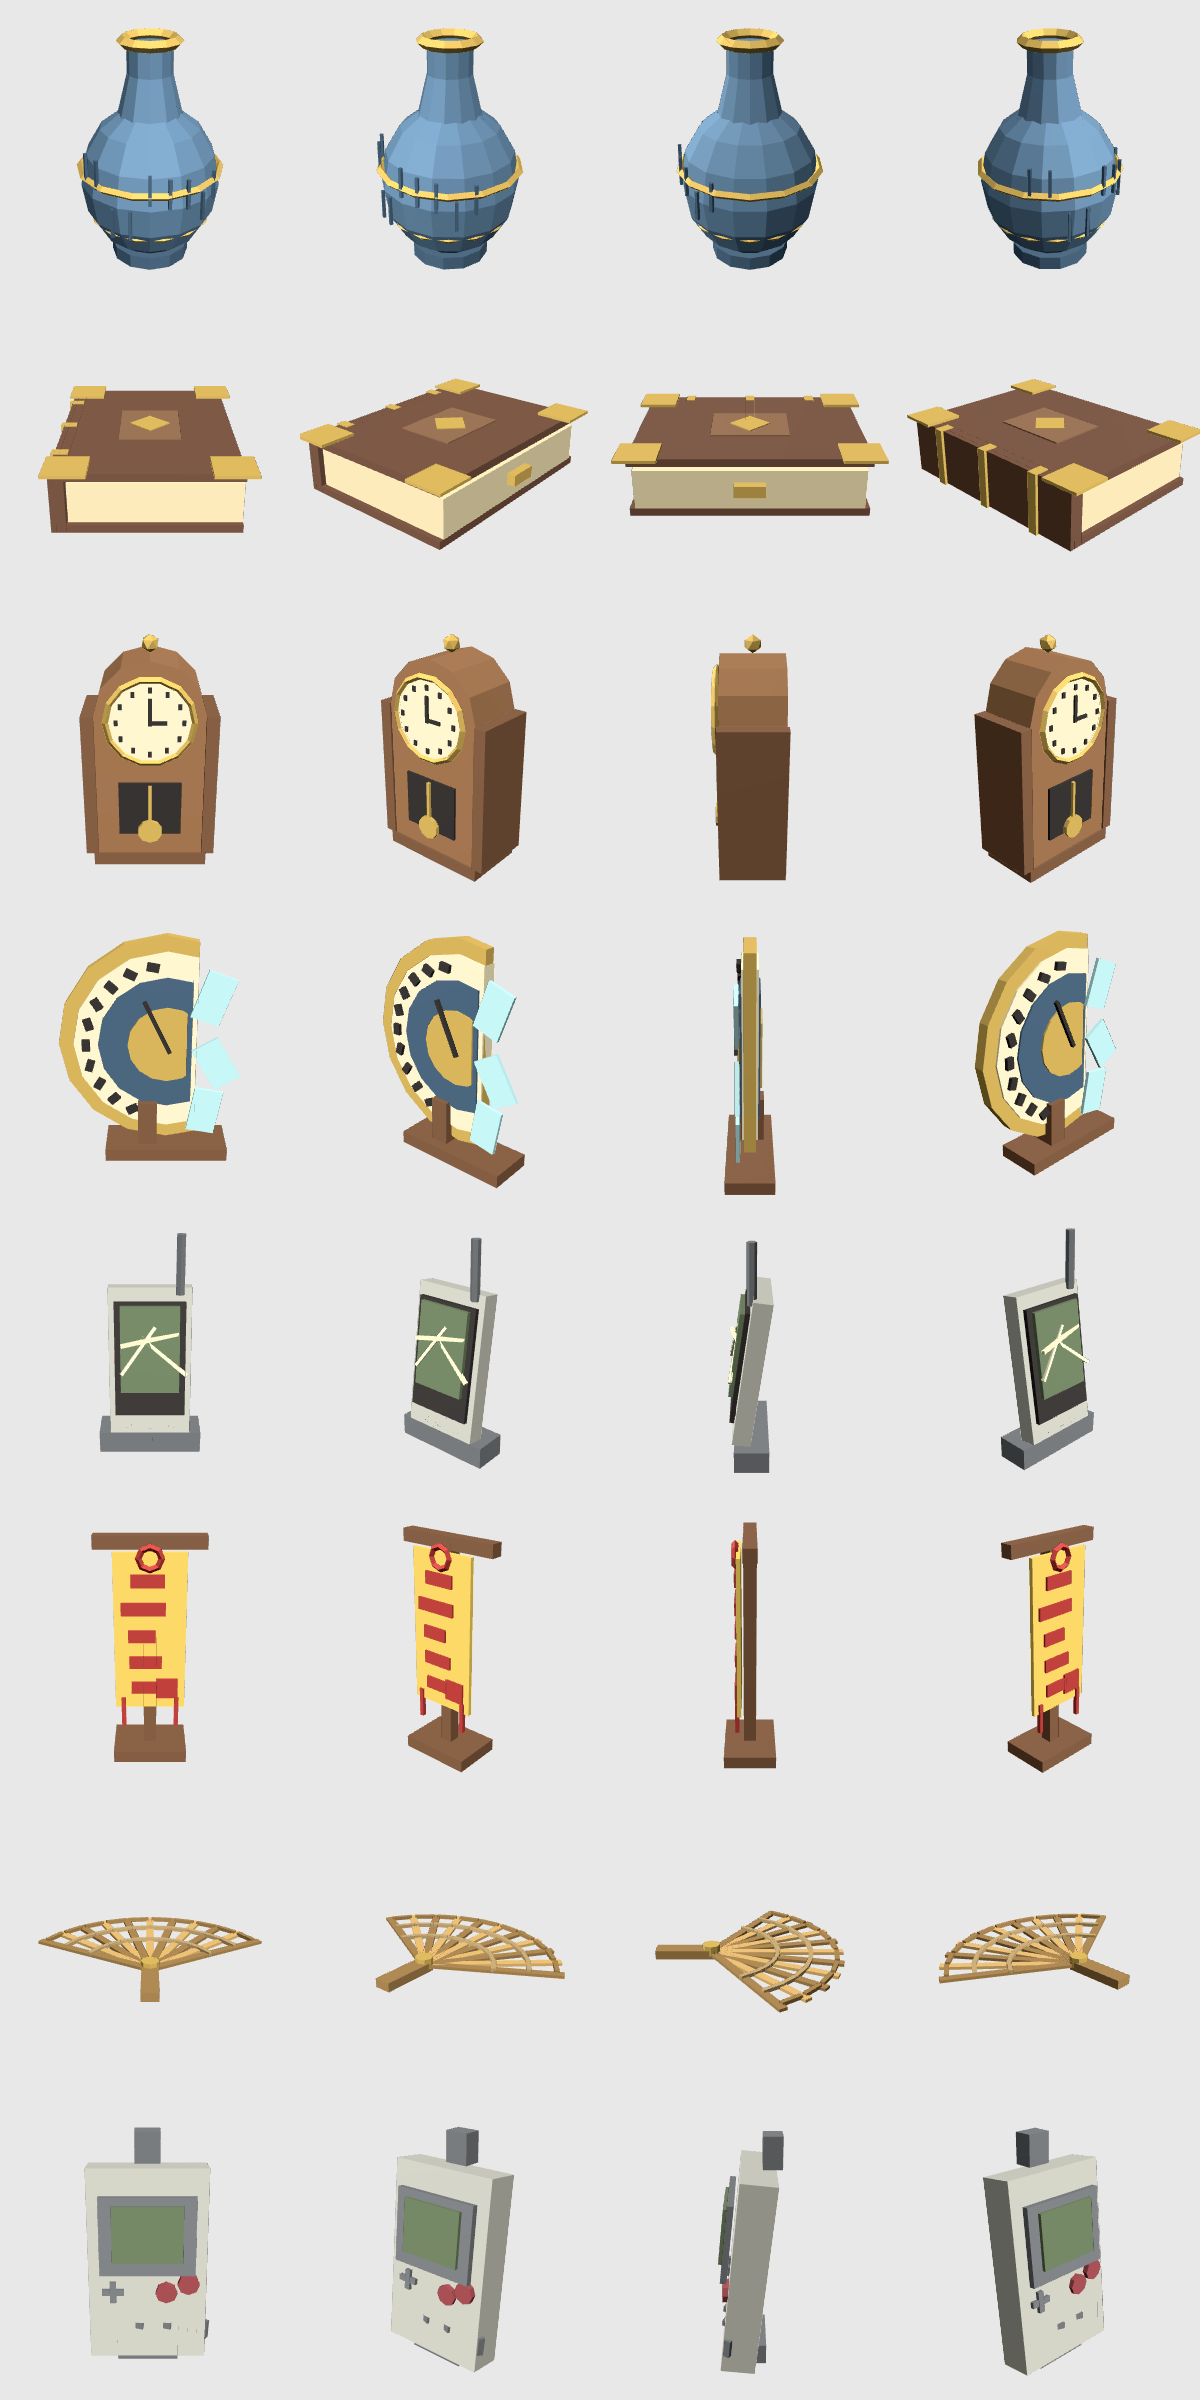
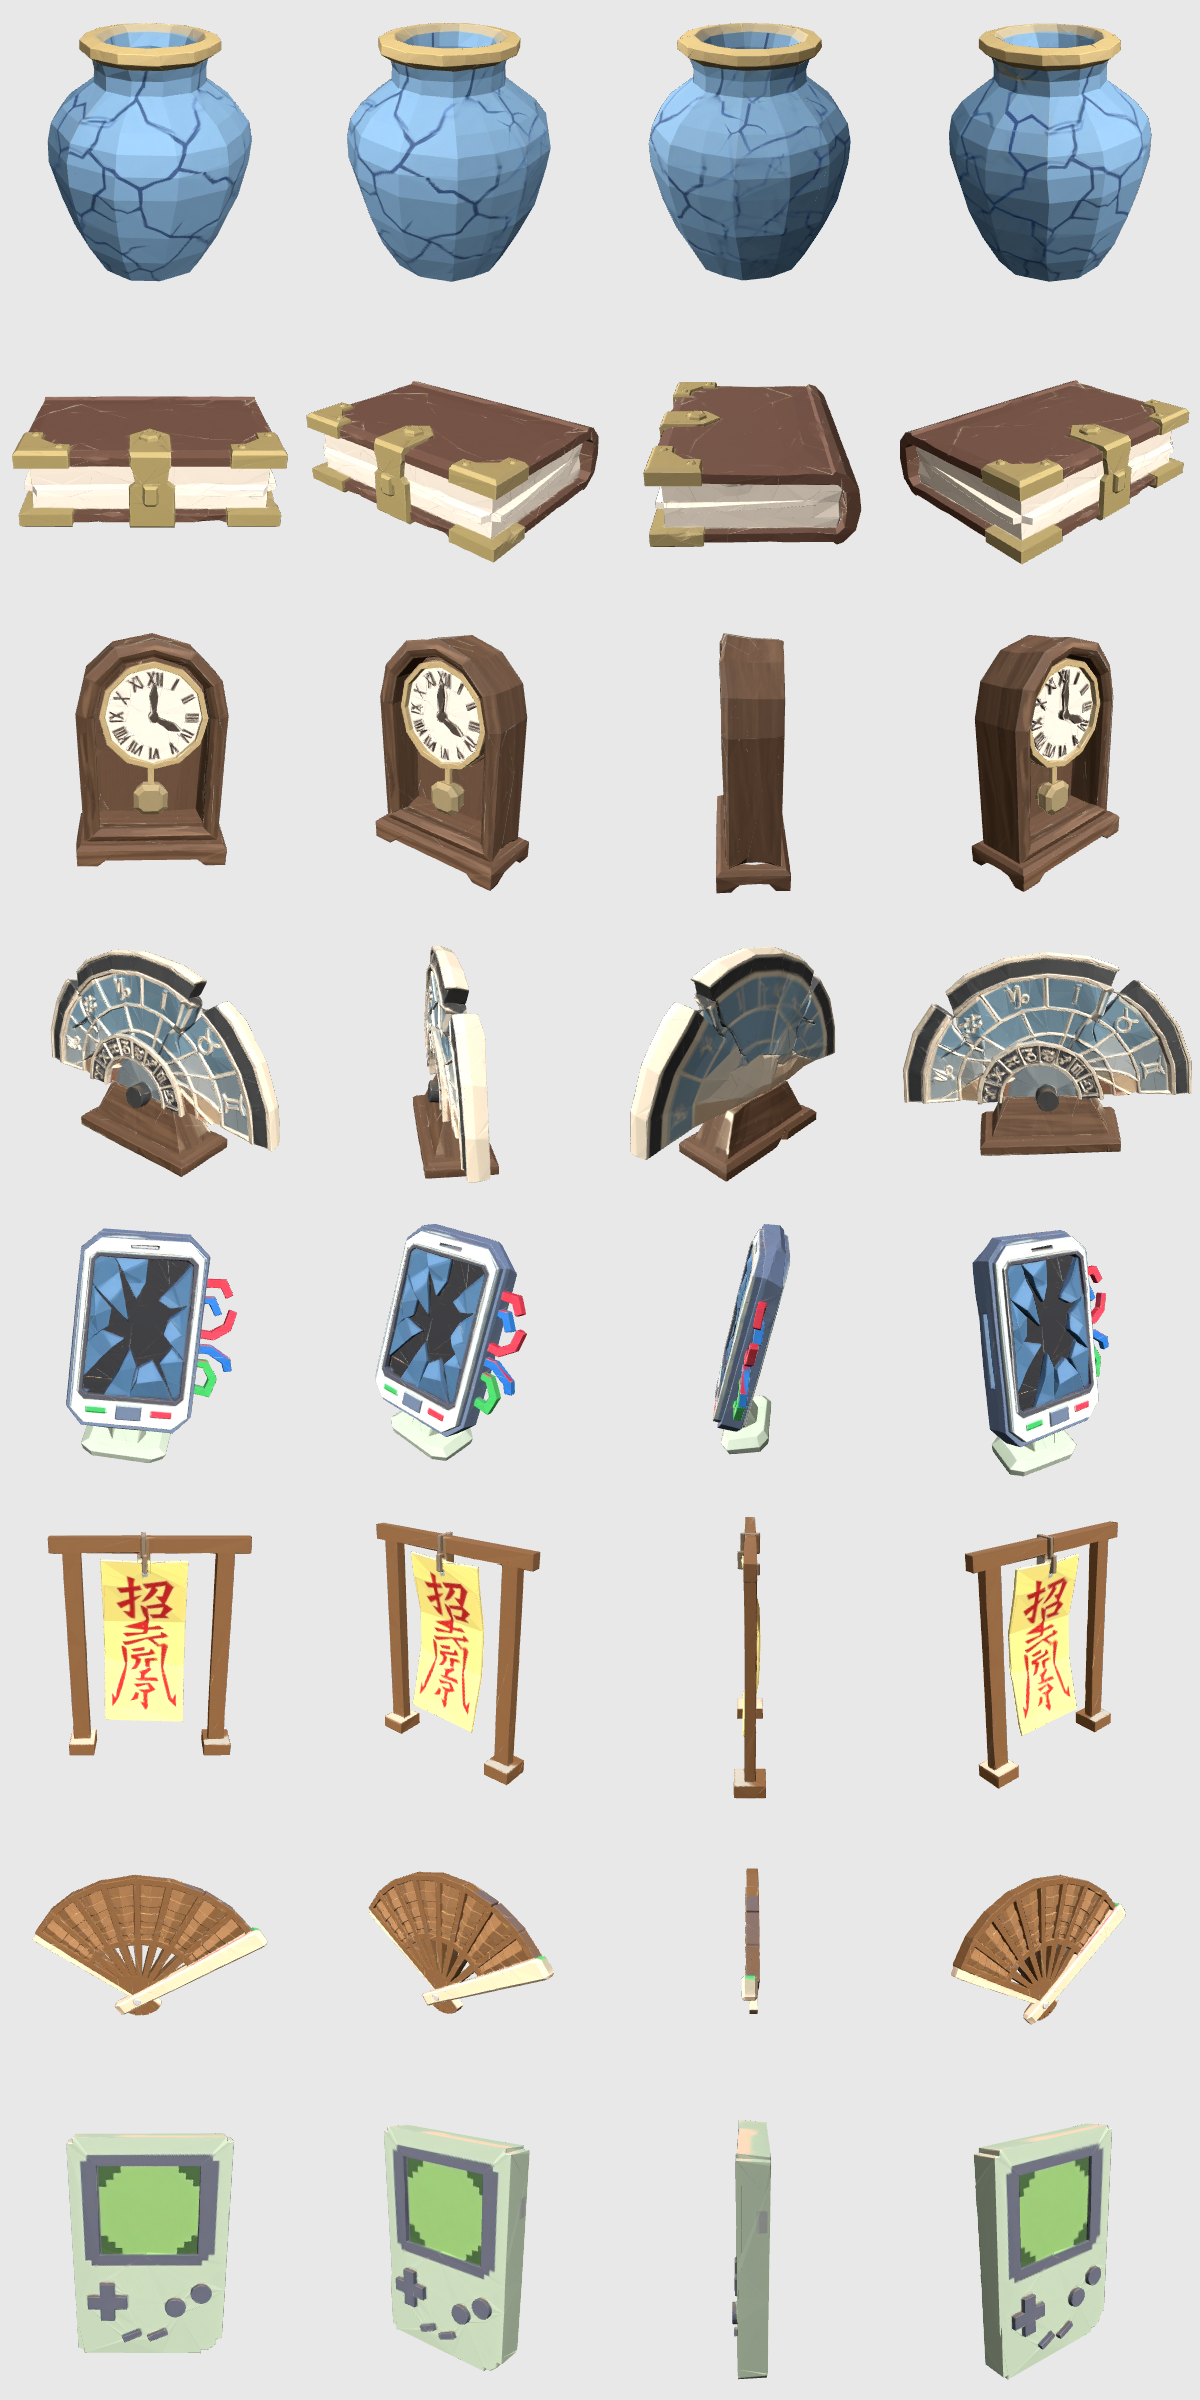
art: 17 recognisable low-poly junk and common items from Meshy
Adds a pair of honeycomb sandals and a dragon cigarette pack (parody, no
brand). The code-built Blender versions move to *_Blender for comparison.

Claude-Session: https://claude.ai/code/session_01QKQCdZrLAmYuhynD5rorbZ

diff --git a/docs/superpowers/specs/2026-11-23-tier-do-trong-ruong-design.md b/docs/superpowers/specs/2026-11-23-tier-do-trong-ruong-design.md
@@ -45,7 +45,7 @@ Nguyên tắc nội dung: **gần gũi, người chơi nhận ra ngay**. Pha **c
 
 | Bậc | Món |
 |---|---|
-| **Rác (8)** | Giày cũ, Tất thối, Trứng thối, Xương cá (4 món bạn nêu từ đầu), Dép tổ ong cụt quai (VN), Lon nước ngọt bẹp, Áo đấu cũ của đội nhại (NH), Vé cược nhàu |
+| **Rác (9)** | Giày cũ, Tất thối, Trứng thối, Xương cá (4 món bạn nêu từ đầu), Đôi dép tổ ong (một chiếc đứt quai), Lon nước ngọt bẹp, Áo đấu cũ đội nhại, Bao thuốc lá hình rồng (nhại kiểu Thăng Long, không dùng tên hay logo hãng), Vé cược nhàu |
 | **Thường (8)** | **V01** Bình sứ men xanh, **V02** Sách cổ bìa da, **V03** Đồng hồ quả lắc cũ, **V04** Mảnh kính đồng hồ thiên văn, **V05** Thiết bị liên lạc hỏng, **V09** Lá bùa giấy vàng, Quạt nan cũ (VN), Máy game cầm tay 8-bit (NH) |
 | **Hiếm (7)** | **V06** Bộ pin lượng tử, **V08** Gương thủy tinh cổ tích, Băng cassette và máy phát (VN), Nón lá thêu hoa (VN), Cái túi thần kỳ 4 chiều (NH), Cục sạc hình chuột vàng (NH), Mũ phù thủy học việc (NH) |
 | **Rất hiếm (6)** | **V07** Tinh thể lam cầm tay, **V10** Mảnh vảy long, Đàn thần (VN, truyền thuyết Thạch Sanh), Trống đồng nhỏ (VN), Kiếm sáng ba màu (NH), Quả cầu ngọc 7 sao (NH) |
@@ -97,4 +97,4 @@ Số lỗi cần tìm tăng theo bậc (đề xuất): Thường 1–2, Hiếm 2
 | Hiếm | Blender chi tiết hơn hoặc Meshy | Làm sau |
 | Rất hiếm, Huyền thoại | Meshy | Chi tiết nhất, làm sau |
 
-Đã làm: Rác (8) và Thường (V01–V05, V09, quạt nan V11, máy game 8-bit V12) trong `Assets/_Project/Art/Items/LowPoly/Junk` và `Common`, dựng bằng `Tools/Blender/make_items_lowpoly.py`.
+Đã làm: Rác (9) và Thường (V01–V05, V09, quạt nan V11, máy game 8-bit V12) trong `Assets/_Project/Art/Items/LowPoly/Junk` và `Common`. **Bản dùng chính tạo bằng Meshy** (gộp ảnh có bóng đổ), vì bản dựng bằng code (`Junk_Blender`, `Common_Blender`) quá trừu tượng, người chơi không nhận ra món nếu không có chú thích. Nguyên tắc: mỗi món phải nhận ra ngay khi nhìn.

diff --git a/Docs/Art/BanGiao3D.md b/Docs/Art/BanGiao3D.md
@@ -126,3 +126,9 @@ Mỗi hộp tách thành các lớp (object con của root `H1`, `H2`, `H3`, `RD
 Meshy tạo hộp (8 nghìn tam giác), rồi script `Tools/Blender/cut_lid_from_meshy.py` cắt mô hình theo đường nối nắp và tách `Body` + `Lid` (gốc tại bản lề phía sau). Chạy: `python cut_lid_from_meshy.py -- <meshy.glb> <ra.glb> <độ cao đường nối theo trục Y của glTF> <chiều cao mong muốn, mét>`. Với hộp này đường nối ở y = 0,43 và chiều cao 0,24 m. `BoxOpenSequence` chạy được trên file này (nắp mở đúng, thấy lòng hộp rỗng).
 
 Giới hạn: dấu sáp và dây/khóa nằm luôn trong texture nên **không tách thành lớp** `Seal`, `Binding` được; không có `Glow`. Độ cao đường nối phải tìm tay cho từng hộp. Mặt cắt nắp và thân được trám tự động, texture ở mặt cắt không đẹp. 4 hộp **không gộp một ảnh được** (Meshy dính thành một khối), phải làm từng hộp, 30 credit mỗi hộp.
+
+## Hiện vật Rác và Thường low-poly (17 món)
+
+Bản dùng chính: `Assets/_Project/Art/Items/LowPoly/Junk/` (R01–R09) và `Common/` (V01–V05, V09, V11, V12), tạo bằng Meshy từ ảnh gộp có bóng đổ (`Art/Source/ref_*.png`), tách mesh rồi đặt đáy y=0, giữa gốc tọa độ, và đặt kích thước thật (mét). 1,4–17 nghìn tam giác mỗi món. Bản dựng bằng code `Junk_Blender` và `Common_Blender` giữ để so sánh, **không dùng**.
+
+Lưu ý: tất thối và trứng thối có vạch mùi xanh nổi trên đầu, **đó là phần mesh**. Mặt thiên văn vỡ (V04) bỏ các mảnh kính rơi dưới nền. Huy hiệu áo đấu (R07) là khuôn mặt sừng cách điệu, đã chủ ý khác logo câu lạc bộ thật; bao thuốc rồng (R08) không có chữ hay thương hiệu.
